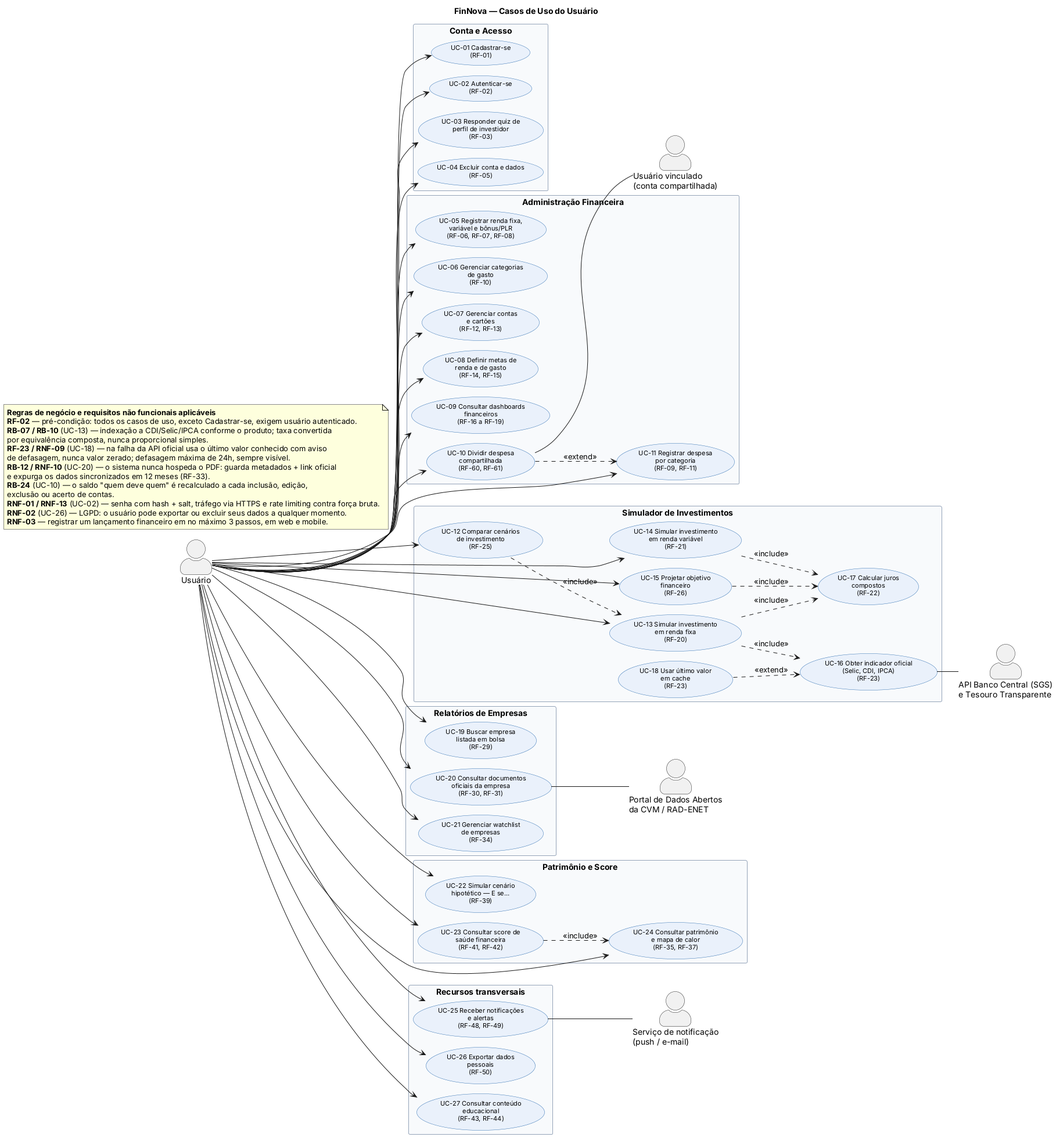
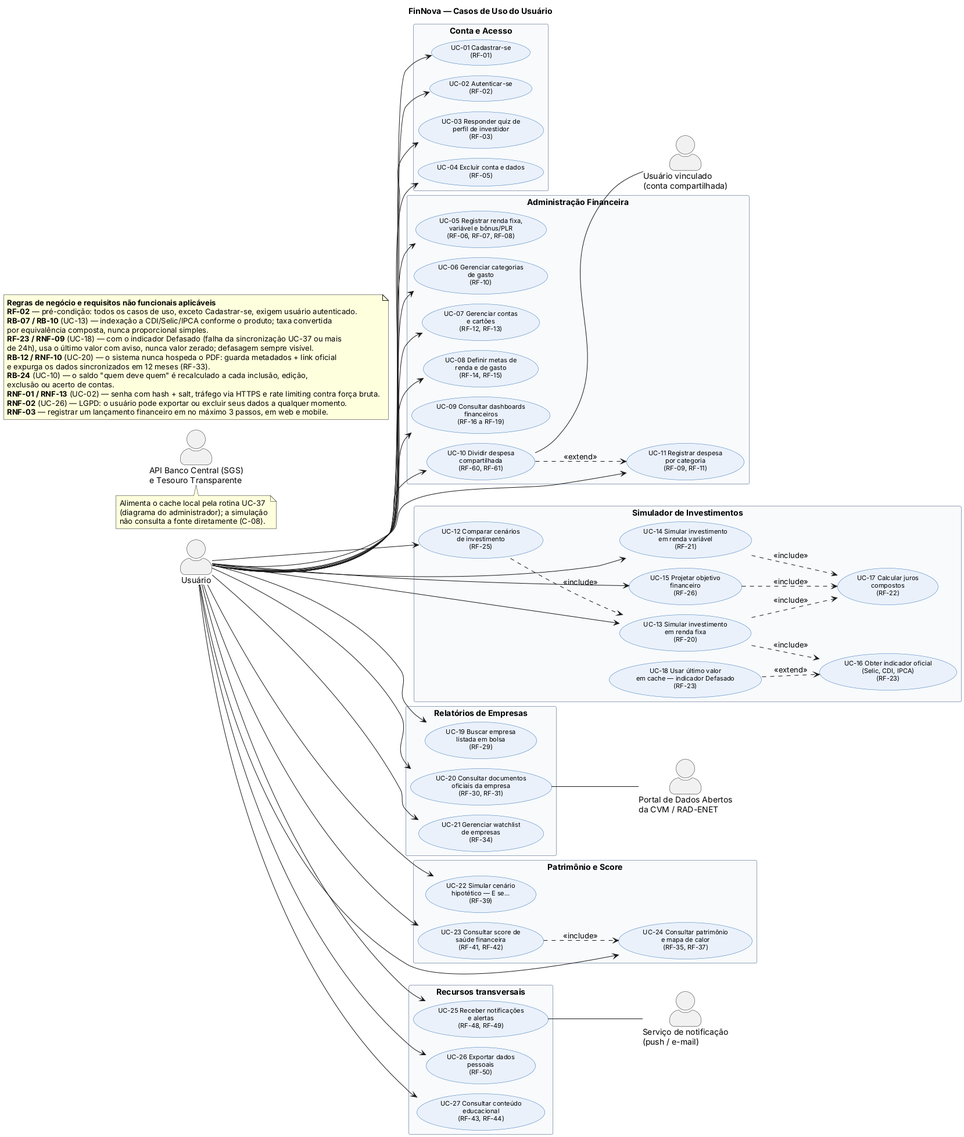
docs: corrige achados da revisão do UC-13 (#29, #30, #31, #32, #33)
- Estados do IndicadorOficial: falha da sincronização (UC-37) leva
  Atualizado a Defasado, alinhado ao RF-23 (IF/THEN) e à ADR-003;
  rótulos de evento/guarda e definição de estaDefasado().
- Sequência do UC-13: participante externo e IndicadorOficial,
  estaDefasado(), taxa manual obrigatória no ramo SemValor, releitura do
  indicador em simular(), estimarIR() opcional, aviso até o usuário e
  sem códigos HTTP não especificados.
- UC-16/UC-18: leitura do cache e extensão pelo estado Defasado (C-08).
- Relações dos casos de uso alinhadas entre .md e .puml.
- RF-02 e issues.md: bloqueio por e-mail informado, como na SPEC-001-R09;
  RF-20 com exceção para cache sem valor; glossário com taxa sugerida,
  taxa manual, indicador defasado e bloqueio por tentativas inválidas.
- UC-13: cenários de aceite das cláusulas derivadas, questões em aberto
  e rastreabilidade completa; SPEC-001: Cenário 7 rastreado à R09.

Claude-Session: https://claude.ai/code/session_01NUEevmt7PYzZbeNMgeHBfj

diff --git a/docs/04-casos-de-uso/casos-de-uso-detalhados.md b/docs/04-casos-de-uso/casos-de-uso-detalhados.md
@@ -34,9 +34,9 @@ Descrição textual, com fluxos e exceções, dos casos de uso que compõem o fl
 
 **Exceções**
 
-- **3a. E-mail já cadastrado:** o sistema rejeita o cadastro com mensagem clara e não cria registro (HTTP 409).
 - **2a. Dados inválidos:** e-mail malformado ou senha curta; o sistema indica o campo inválido (HTTP 422).
-- **Excesso de requisições:** o cliente que ultrapassar o limite do RNF-13 recebe HTTP 429.
+- **3a. E-mail já cadastrado:** o sistema rejeita o cadastro com mensagem clara e não cria registro (HTTP 409).
+- **\*a. Excesso de requisições (em qualquer passo):** o cliente que ultrapassar o limite do RNF-13 recebe HTTP 429.
 
 **Pós-condição:** existe um `Usuario` com e-mail único e senha protegida por hash.
 
@@ -67,8 +67,8 @@ Descrição textual, com fluxos e exceções, dos casos de uso que compõem o fl
 **Exceções**
 
 - **2a. E-mail inexistente ou senha incorreta:** o sistema responde com a mesma mensagem genérica nos dois casos, sem revelar qual campo falhou (HTTP 401).
-- **2b. Tentativas inválidas repetidas:** o acesso da conta é bloqueado por 15 minutos após 5 tentativas inválidas consecutivas para o mesmo e-mail; enquanto durar o bloqueio, o sistema responde HTTP 429 com mensagem genérica (RF-02; SPEC-001-R09 e R10).
-- **Excesso de requisições:** HTTP 429 (RNF-13).
+- **2b. Tentativas inválidas repetidas:** após 5 tentativas inválidas consecutivas para o mesmo e-mail, novas tentativas para esse e-mail são bloqueadas por 15 minutos, exista ou não a conta; enquanto durar o bloqueio, o sistema responde HTTP 429 com mensagem genérica (RF-02; SPEC-001-R09 e R10; [#32](https://github.com/EricToshioGoya/Finance-management/issues/32)).
+- **\*a. Excesso de requisições (em qualquer passo):** HTTP 429 (RNF-13).
 
 **Pós-condição:** o cliente possui um token válido até a expiração ou o logout.
 
@@ -115,7 +115,7 @@ Descrição textual, com fluxos e exceções, dos casos de uso que compõem o fl
 | Ator principal | Usuário autenticado |
 | Atores secundários | API Banco Central (SGS) e Tesouro Transparente, de forma indireta, via cache |
 | Objetivo | Projetar quanto um investimento em renda fixa renderá ao fim do prazo, usando a taxa oficial vigente do produto. |
-| Requisitos | RF-20, RF-22, RF-23, RB-07, RB-10, RNF-04, RNF-09 |
+| Requisitos | RF-20, RF-22, RF-23, RF-25, RB-07, RB-10, RNF-04, RNF-09, DOM-09 |
 | Regras de negócio aplicadas | **RB-07** — a simulação é indexada ao CDI, à Selic ou ao IPCA conforme o produto (passo 2). **RB-10** — a taxa é convertida entre mês e ano por equivalência composta, nunca por divisão simples (passo 4). |
 | Specs | SPEC-002 (motor de cálculo); tributação na SPEC-004 (futura) |
 | Inclui | UC-16 (Obter indicador oficial) e UC-17 (Calcular juros compostos) |
@@ -135,13 +135,13 @@ Descrição textual, com fluxos e exceções, dos casos de uso que compõem o fl
 
 **Fluxos alternativos**
 
-- **2a. Indicador defasado por falha da fonte oficial (extensão — UC-18):** o sistema usa o último valor conhecido e exibe aviso de defasagem com a data de referência, nunca um valor zerado (RF-23; cláusula UC-13-E01).
+- **2a. Indicador defasado — falha da sincronização ou mais de 24h sem sucesso (extensão — UC-18):** o sistema usa o último valor conhecido e exibe aviso de defasagem com a data de referência, nunca um valor zerado (RF-23; cláusula UC-13-E01).
 - **2b. Nenhum valor do indicador no cache (extensão):** na primeira execução, antes de qualquer sincronização, o sistema não sugere taxa e exige que o usuário informe a taxa manualmente para prosseguir (cláusula UC-13-E02).
 - **3a. Taxa manual:** o usuário substitui a taxa sugerida por um valor próprio; a simulação não é vinculada a um `IndicadorOficial` (RF-20, DOM-09).
 
 **Exceções**
 
-- **4a. Entrada inválida** (valor negativo ou prazo igual a zero): o sistema rejeita a simulação e indica o campo (SPEC-002, R06).
+- **4a. Entrada inválida** (valor inicial, aporte mensal ou taxa negativos, ou prazo menor ou igual a zero): o sistema rejeita a simulação e indica o campo (SPEC-002-R06). O código HTTP da resposta fica para a spec da simulação (OPEN-UC13-04).
 
 **Pós-condição:** a simulação está guardada com seus parâmetros, e o usuário visualiza a projeção, identificada como simulação educativa e não como recomendação.
 
@@ -151,7 +151,7 @@ Descrição textual, com fluxos e exceções, dos casos de uso que compõem o fl
 
 ![Diagrama de sequência do UC-13](../uml/seq-UC-13.png)
 
-Os blocos `alt` modelam as extensões 2a e 2b (estado do indicador) e a exceção 4a; o bloco `opt` modela o fluxo alternativo 3a.
+Os blocos `alt` modelam as extensões 2a e 2b (estado do indicador) e a exceção 4a; o bloco `opt` modela o fluxo alternativo 3a (no ramo 2b a taxa manual é obrigatória). O diagrama detalha a seção 5.2 da `arquitetura.md` em duas chamadas (sugestão da taxa e simulação), inclui a gravação do passo 5 e mostra, em bloco separado, a rotina agendada UC-37 que alimenta o cache: a simulação nunca chama a fonte externa (ADR-003, C-08).
 
 ### Diagrama de estados do `IndicadorOficial`
 
@@ -159,9 +159,9 @@ Os blocos `alt` modelam as extensões 2a e 2b (estado do indicador) e a exceçã
 
 | Estado | Condição | Efeito no UC-13 |
 |---|---|---|
-| SemValor | Nenhum valor em cache (antes da primeira sincronização). | Extensão 2b: taxa manual obrigatória (UC-13-E02). |
+| SemValor | Não há registro de `IndicadorOficial` para o tipo do produto (antes da primeira sincronização). | Extensão 2b: taxa manual obrigatória (UC-13-E02). |
 | Atualizado | Última sincronização bem-sucedida há no máximo 24h (RNF-09). | Fluxo principal: taxa pré-preenchida com a data de referência. |
-| Defasado | Mais de 24h sem sincronização bem-sucedida; `estaDefasado()` verdadeiro. | Extensão 2a: último valor com aviso de defasagem (UC-13-E01). |
+| Defasado | A última sincronização (UC-37) falhou ou passaram mais de 24h sem sincronização bem-sucedida; `estaDefasado()` verdadeiro. | Extensão 2a: último valor com aviso de defasagem (UC-13-E01). |
 
 ### Cláusulas EARS do UC-13
 
@@ -171,7 +171,7 @@ Cláusulas derivadas dos estados e das exceções. As novas (E01 e E02) também 
 |---|---|---|---|
 | UC-13-E01 | State-driven | WHILE o `IndicadorOficial` do produto estiver Defasado THE SYSTEM SHALL exibir, junto à taxa sugerida e ao resultado da simulação, aviso de defasagem com a data de referência. | Estado Defasado; RF-23, RNF-09 |
 | UC-13-E02 | Unwanted behavior | IF não houver valor do `IndicadorOficial` do produto no cache THEN THE SYSTEM SHALL exigir que o usuário informe a taxa manualmente antes de executar a simulação. | Estado SemValor; extensão 2b; RF-20, RF-23 |
-| RF-23 (IF/THEN) | Unwanted behavior | IF a API oficial estiver indisponível ou retornar erro na atualização THEN THE SYSTEM SHALL usar o último valor em cache e exibir aviso visual de defasagem — nunca um valor zerado ou inventado. | Transição Defasado → Defasado; extensão 2a |
+| RF-23 (IF/THEN) | Unwanted behavior | IF a API oficial estiver indisponível ou retornar erro na atualização THEN THE SYSTEM SHALL usar o último valor em cache e exibir aviso visual de defasagem — nunca um valor zerado ou inventado. | Transições Atualizado → Defasado e Defasado → Defasado (falha da UC-37); extensão 2a |
 | SPEC-002-R06 | Unwanted behavior | IF `valor_inicial`, `aporte_mensal` ou `taxa_juros` for negativo, ou `periodo` for menor ou igual a zero, THEN THE SYSTEM SHALL lançar `ValueError` sem executar o cálculo. | Exceção 4a |
 | DOM-09 | Event-driven | WHEN uma simulação de renda fixa for criada sem taxa manual THE SYSTEM SHALL associá-la ao `IndicadorOficial` correspondente ao produto. | Passo 5; alternativo 3a |
 
@@ -179,10 +179,26 @@ Cláusulas derivadas dos estados e das exceções. As novas (E01 e E02) também 
 
 | Regra | Passo do UC-13 | Elemento no diagrama | Cláusula que vira teste | Evidência no GitHub |
 |---|---|---|---|---|
-| RB-07 — indexação conforme o produto | 2 | Sequência: `buscarPorTipo(...) [RB-07]` | DOM-09 (teste na spec do RF-20, a criar) | [#18](https://github.com/EricToshioGoya/Finance-management/issues/18) (RF-20) |
+| RB-07 — indexação conforme o produto | 2 | Sequência: `buscarPorTipo(...) [RB-07]` | RF-23 (Event-driven) e DOM-09 — teste na spec do RF-20/RF-23, a criar; depende da OPEN-UC13-01 | [#18](https://github.com/EricToshioGoya/Finance-management/issues/18) (RF-20) |
 | RB-10 — equivalência composta | 4 | Sequência: `calcularEvolucao() [RB-10]` | SPEC-002-R02 (unitário — Cenário 1) | [#20](https://github.com/EricToshioGoya/Finance-management/issues/20) (RF-22) |
-| RF-23 / RNF-09 — indicador defasado | 2a | Sequência: `alt` Defasado; Estados: Atualizado → Defasado | UC-13-E01 (spec a criar) | [#21](https://github.com/EricToshioGoya/Finance-management/issues/21) (RF-23) |
-| RF-23 — cache sem valor | 2b | Sequência: `alt` SemValor; Estados: SemValor | UC-13-E02 (spec a criar) | [#21](https://github.com/EricToshioGoya/Finance-management/issues/21) (RF-23) |
+| RF-23 / RNF-09 — indicador defasado | 2a | Sequência: `alt` Defasado; Estados: Atualizado → Defasado | UC-13-E01 — Cenário UC13-A (`test_uc13_e01_aviso_defasagem`, previsto) | [#21](https://github.com/EricToshioGoya/Finance-management/issues/21) (RF-23) |
+| RF-23 — cache sem valor | 2b | Sequência: `alt` SemValor; Estados: SemValor | UC-13-E02 — Cenário UC13-B (`test_uc13_e02_exige_taxa_manual`, previsto) | [#21](https://github.com/EricToshioGoya/Finance-management/issues/21) (RF-23) |
 | RF-22 — entrada inválida | 4a | Sequência: `alt` Entrada inválida | SPEC-002-R06 (unitário — Cenário 3) | [#20](https://github.com/EricToshioGoya/Finance-management/issues/20) (RF-22) |
+| DOM-09 — vínculo com o indicador | 5, 3a | Sequência: `salvar(simulação) ... [DOM-09]` | DOM-09 — Cenário UC13-C (`test_dom09_vinculo_indicador_ou_taxa_manual`, previsto) | [#18](https://github.com/EricToshioGoya/Finance-management/issues/18) (RF-20) |
 
-Artefatos desta modelagem: caso de uso ([#29](https://github.com/EricToshioGoya/Finance-management/issues/29)), diagrama de sequência ([#30](https://github.com/EricToshioGoya/Finance-management/issues/30)) e diagrama de estados ([#31](https://github.com/EricToshioGoya/Finance-management/issues/31)).
+Artefatos desta modelagem: caso de uso ([#29](https://github.com/EricToshioGoya/Finance-management/issues/29)), diagrama de sequência ([#30](https://github.com/EricToshioGoya/Finance-management/issues/30)), diagrama de estados ([#31](https://github.com/EricToshioGoya/Finance-management/issues/31)), cláusulas de bloqueio da SPEC-001 ([#32](https://github.com/EricToshioGoya/Finance-management/issues/32)) e fontes PlantUML ([#33](https://github.com/EricToshioGoya/Finance-management/issues/33)), entregues pelo PR [#34](https://github.com/EricToshioGoya/Finance-management/pull/34).
+
+### Cenários de aceite das cláusulas derivadas
+
+Os nomes de teste são previstos e serão confirmados na spec da simulação de renda fixa, a criar.
+
+- **Cenário UC13-A (UC-13-E01):** **Dado** um `IndicadorOficial` CDI cuja última sincronização bem-sucedida foi há 30 horas, **quando** o usuário simula um CDB com a taxa sugerida, **então** a resposta traz o resultado, a data de referência e o aviso de defasagem.
+- **Cenário UC13-B (UC-13-E02):** **Dado** que não há registro de `IndicadorOficial` CDI no cache, **quando** o usuário pede uma simulação de CDB sem informar taxa, **então** a simulação é rejeitada e o sistema exige a taxa manual.
+- **Cenário UC13-C (DOM-09):** **Dado** um `IndicadorOficial` CDI atualizado, **quando** o usuário simula com a taxa sugerida, **então** a simulação guardada fica vinculada ao indicador; **e quando** simula com taxa manual, **então** a simulação guardada fica sem vínculo.
+
+### Questões em aberto do UC-13
+
+- **OPEN-UC13-01:** qual indicador corresponde a cada produto (RB-07)? Ex.: CDB → CDI; Tesouro → título específico (Selic, IPCA+ ou prefixado); poupança → regra própria da poupança (que depende da Selic e da TR).
+- **OPEN-UC13-02:** uma sincronização bem-sucedida sem dado novo (fins de semana, feriados, IPCA mensal) atualiza `atualizadoEm`? A resposta define quando o indicador passa a Defasado.
+- **OPEN-UC13-03:** o expurgo de 12 meses do RNF-10 (RB-12) vale também para o `IndicadorOficial`, ou só para os dados da CVM? Se valer, falta a transição Defasado → SemValor.
+- **OPEN-UC13-04:** qual é o contrato HTTP da simulação (códigos de sucesso e de erro de validação)? Definir na spec da simulação de renda fixa.

diff --git a/docs/04-casos-de-uso/casos-de-uso-usuario.md b/docs/04-casos-de-uso/casos-de-uso-usuario.md
@@ -10,7 +10,7 @@ Os identificadores `UC-NN` são sequenciais entre este documento (UC-01 a UC-27)
 
 ![Diagrama de casos de uso do usuário](casos-de-uso-usuario.png)
 
-Fonte editável (PlantUML): `casos-de-uso-usuario.puml`. Para regenerar a imagem após editar a fonte, a partir de `/docs/04-casos-de-uso/`:
+Fonte editável (PlantUML): `casos-de-uso-usuario.puml` ([#33](https://github.com/EricToshioGoya/Finance-management/issues/33)). Para regenerar a imagem após editar a fonte, a partir de `/docs/04-casos-de-uso/`:
 
 ```bash
 java -jar plantuml.jar -tpng casos-de-uso-usuario.puml
@@ -20,7 +20,7 @@ java -jar plantuml.jar -tpng casos-de-uso-usuario.puml
 
 - **Usuário**: utiliza a plataforma para administrar suas finanças, consultar informações e realizar simulações.
 - **Usuário vinculado (conta compartilhada)**: papel assumido por um usuário cadastrado que participa de uma associação de conta compartilhada para divisão de despesas.
-- **API Banco Central (SGS) e Tesouro Transparente**: fornece indicadores oficiais para as simulações.
+- **API Banco Central (SGS) e Tesouro Transparente**: fornece os indicadores oficiais ao cache local por meio da rotina UC-37 (diagrama do administrador); a simulação não a consulta diretamente (C-08).
 - **Portal de Dados Abertos da CVM / RAD-ENET**: fornece dados e documentos oficiais de empresas.
 - **Serviço de notificação (push / e-mail)**: entrega notificações e alertas ao usuário.
 
@@ -53,11 +53,11 @@ java -jar plantuml.jar -tpng casos-de-uso-usuario.puml
 | --- | --- | --- | --- | --- |
 | UC-12 | Comparar cenários de investimento | RF-25 | Usuário | Permite comparar os resultados de diferentes cenários de investimento. |
 | UC-13 | Simular investimento em renda fixa | RF-20 | Usuário; API Banco Central e Tesouro Transparente | Simula a evolução de um investimento de renda fixa. |
-| UC-14 | Simular investimento em renda variável | RF-21 | Usuário; API Banco Central e Tesouro Transparente | Simula cenários de investimento em renda variável. |
+| UC-14 | Simular investimento em renda variável | RF-21 | Usuário; provedor de dados de mercado (RF-24, a definir) | Simula cenários de investimento em renda variável. |
 | UC-15 | Projetar objetivo financeiro | RF-26 | Usuário | Permite projetar a evolução necessária para atingir um objetivo financeiro. |
-| UC-16 | Obter indicador oficial (Selic, CDI, IPCA) | RF-23 | API Banco Central e Tesouro Transparente | Obtém os indicadores oficiais usados nas simulações. |
-| UC-17 | Calcular juros compostos | RF-22 | Usuário | Calcula a evolução dos valores aplicados com base em juros compostos. |
-| UC-18 | Usar último valor em cache | RF-23 | Sistema | Usa o último valor conhecido quando a API oficial estiver indisponível. |
+| UC-16 | Obter indicador oficial (Selic, CDI, IPCA) | RF-23 | Sistema (cache local, alimentado pela UC-37) | Lê do cache local o indicador oficial usado na simulação; a fonte externa é consultada só pela UC-37. |
+| UC-17 | Calcular juros compostos | RF-22 | — (incluído por UC-13, UC-14 e UC-15) | Calcula a evolução dos valores aplicados com base em juros compostos. |
+| UC-18 | Usar último valor em cache | RF-23 | Sistema | Usa o último valor em cache, com aviso, quando o indicador estiver Defasado (falha da sincronização UC-37 ou mais de 24h sem sucesso). |
 
 ### Relatórios de Empresas
 
@@ -87,8 +87,9 @@ java -jar plantuml.jar -tpng casos-de-uso-usuario.puml
 
 - **Dividir despesa compartilhada** estende **Registrar despesa por categoria**.
 - **Comparar cenários de investimento** inclui **Simular investimento em renda fixa**.
-- **Simular investimento em renda fixa** e **Simular investimento em renda variável** incluem **Obter indicador oficial (Selic, CDI, IPCA)** e **Calcular juros compostos**, quando aplicável.
-- **Usar último valor em cache** estende **Obter indicador oficial (Selic, CDI, IPCA)** quando a consulta à fonte oficial falha.
+- **Simular investimento em renda fixa** inclui **Obter indicador oficial (Selic, CDI, IPCA)** e **Calcular juros compostos**.
+- **Simular investimento em renda variável** e **Projetar objetivo financeiro** incluem **Calcular juros compostos**.
+- **Usar último valor em cache** estende **Obter indicador oficial (Selic, CDI, IPCA)** quando o indicador em cache está Defasado (falha da sincronização UC-37 ou mais de 24h sem sucesso — `docs/uml/estados-indicador.png`).
 - **Consultar score de saúde financeira** inclui **Consultar patrimônio e mapa de calor**.
 - **Consultar documentos oficiais da empresa** depende do **Portal de Dados Abertos da CVM / RAD-ENET**.
 - **Receber notificações e alertas** utiliza o **Serviço de notificação (push / e-mail)**.

diff --git a/docs/08-specs/SPEC-001-cadastro-e-autenticacao.md b/docs/08-specs/SPEC-001-cadastro-e-autenticacao.md
@@ -3,7 +3,7 @@
 * **Status:** Aprovada
 * **Data:** 2026-10-08
 * **Revisão:** 2026-10-18 — correção da rastreabilidade, inclusão das cláusulas EARS (seção 5) e dos cenários 4 e 5.
-* **Revisão:** 2026-10-18 (Semana 4) — cláusulas R09 e R10 do bloqueio por tentativas inválidas (decisão da OPEN-02) e cenários 6 e 7.
+* **Revisão:** 2026-10-18 (Semana 4) — cláusulas R09 e R10 do bloqueio por tentativas inválidas (decisão da OPEN-02) e cenários 6 e 7 ([#32](https://github.com/EricToshioGoya/Finance-management/issues/32)).
 * **Autor:** Equipe FinNova / SDD
 
 ---
@@ -86,7 +86,7 @@ Cada cláusula `SHALL` tem ao menos um teste automatizado que cita o seu ID (ver
 | SPEC-001-R06 | Ubiquitous | THE SYSTEM SHALL nunca armazenar nem registrar em log a senha em texto plano. | RNF-01 | Unitário (hash) e integração (inspeção do registro e dos logs) |
 | SPEC-001-R07 | State-driven | WHILE um cliente tiver excedido 100 requisições no último minuto em um endpoint de autenticação THE SYSTEM SHALL rejeitar novas requisições desse cliente nesse endpoint com `429 Too Many Requests`. | RNF-13 | Integração |
 | SPEC-001-R08 | Ubiquitous | THE SYSTEM SHALL expor os endpoints de autenticação sob o prefixo `/api/v1`. | RNF-17 | Integração (rotas) |
-| SPEC-001-R09 | Unwanted behavior | IF ocorrerem 5 tentativas de login inválidas consecutivas para o mesmo e-mail, sem login bem-sucedido entre elas, THEN THE SYSTEM SHALL bloquear novas tentativas de login para esse e-mail por 15 minutos, esteja ele cadastrado ou não. | RF-02, INV-03 | Integração — Cenário 6 |
+| SPEC-001-R09 | Unwanted behavior | IF ocorrerem 5 tentativas de login inválidas consecutivas para o mesmo e-mail, sem login bem-sucedido entre elas, THEN THE SYSTEM SHALL bloquear novas tentativas de login para esse e-mail por 15 minutos, esteja ele cadastrado ou não. | RF-02, INV-03 | Integração — Cenários 6 e 7 |
 | SPEC-001-R10 | State-driven | WHILE o e-mail informado estiver bloqueado THE SYSTEM SHALL responder `429 Too Many Requests` com mensagem genérica a toda tentativa de login para esse e-mail, inclusive com a senha correta. | RF-02, INV-03 | Integração — Cenários 6 e 7 |
 
 ---
@@ -130,7 +130,7 @@ Cada cláusula `SHALL` tem ao menos um teste automatizado que cita o seu ID (ver
 * **Quando** forem enviadas 5 requisições de login seguidas com senha incorreta e, em seguida, uma requisição com a senha correta
 * **Então** a sexta requisição deve retornar `429 Too Many Requests` com mensagem genérica; e o mesmo comportamento, com corpo de resposta idêntico, deve ocorrer para o e-mail "inexistente@finnova.com".
 
-### Cenário 7: Fim do bloqueio (R10)
+### Cenário 7: Fim do bloqueio (R09, R10)
 * **Dado** que o e-mail "usuario@finnova.com" foi bloqueado há mais de 15 minutos
 * **Quando** for enviada uma requisição de login com a senha correta
 * **Então** o sistema deve retornar `200 OK` com o `access_token`.
@@ -139,5 +139,5 @@ Cada cláusula `SHALL` tem ao menos um teste automatizado que cita o seu ID (ver
 
 ## 8. Questões em Aberto
 * **OPEN-01:** Qual será o tempo padrão de expiração do Token JWT (ex: 60 minutos ou 24 horas)? *(Decisão pendente de configuração de ambiente)*.
-* **OPEN-02:** O RF-02 exige bloquear o acesso após N tentativas inválidas. Qual é o valor de N, por quanto tempo dura o bloqueio e ele se aplica à conta ou ao cliente? *(Complementar ao rate limiting da R07)*. **Resolvida (rev-1):** N = 5 tentativas inválidas consecutivas; bloqueio de 15 minutos; aplica-se à conta (o rate limiting da R07 continua valendo por cliente). Ver RF-02. **Formalizada na Semana 4** nas cláusulas R09 e R10: o contador considera o e-mail informado, exista ou não a conta, e a resposta durante o bloqueio é `429` com mensagem genérica, para não revelar contas (INV-03).
+* **OPEN-02:** O RF-02 exige bloquear o acesso após N tentativas inválidas. Qual é o valor de N, por quanto tempo dura o bloqueio e ele se aplica à conta ou ao cliente? *(Complementar ao rate limiting da R07)*. **Resolvida (rev-1):** N = 5 tentativas inválidas consecutivas; bloqueio de 15 minutos; aplica-se à conta (o rate limiting da R07 continua valendo por cliente). Ver RF-02. **Formalizada e refinada na Semana 4** (#32) nas cláusulas R09 e R10: o bloqueio passa a valer para o e-mail informado, exista ou não a conta (e não só para contas existentes), e a resposta durante o bloqueio é `429` com mensagem genérica, para não revelar contas (INV-03).
 * **OPEN-03:** A stack prevê JWT com access e refresh token, e o RF-02 exige manter a sessão até o logout ou a expiração. Refresh token e logout entram nesta spec ou em uma spec própria?

diff --git a/docs/03-requisitos/requisitos.md b/docs/03-requisitos/requisitos.md
@@ -108,12 +108,12 @@
 - Event-driven. WHEN o usuário submete e-mail e senha corretos THE SYSTEM SHALL iniciar a sessão e retornar um token de sessão.
 - State-driven. WHILE a sessão do usuário estiver ativa (token válido e não expirado) THE SYSTEM SHALL permitir o acesso às funcionalidades autenticadas sem nova solicitação de credenciais.
 - Unwanted behavior. IF as credenciais forem inválidas THEN THE SYSTEM SHALL recusar o acesso e exibir mensagem de erro genérica, sem indicar qual campo falhou.
-- Unwanted behavior. IF ocorrerem 5 tentativas de login inválidas consecutivas para a mesma conta THEN THE SYSTEM SHALL bloquear novas tentativas dessa conta por 15 minutos.
+- Unwanted behavior. IF ocorrerem 5 tentativas de login inválidas consecutivas para o mesmo e-mail, cadastrado ou não, THEN THE SYSTEM SHALL bloquear novas tentativas para esse e-mail por 15 minutos.
 
 **Critérios de aceite:**
 
 - [ ] Deve autenticar por e-mail e senha.
-- [ ] Deve bloquear novas tentativas por 15 minutos após 5 tentativas inválidas consecutivas para a mesma conta (padrão de mercado); o contador é zerado após um login bem-sucedido.
+- [ ] Deve bloquear novas tentativas por 15 minutos após 5 tentativas inválidas consecutivas para o mesmo e-mail, cadastrado ou não, para não revelar quais e-mails têm conta (padrão de mercado; SPEC-001-R09, R10 e INV-03); o contador é zerado após um login bem-sucedido.
 - [ ] Deve manter sessão ativa até logout ou expiração do token.
 
 #### RF-03 — Quiz de perfil de investidor
@@ -336,7 +336,7 @@ Reúne o registro de todas as fontes de renda e de gastos do usuário, organizad
 **Critérios de aceite:**
 
 - [ ] Deve permitir simular CDB, Tesouro e poupança informando valor inicial, aporte mensal e prazo.
-- [ ] Deve usar o motor de cálculo de juros compostos (RF-22), alimentado pela taxa vinda dos indicadores oficiais (RF-23) — sem o usuário precisar digitar a taxa manualmente.
+- [ ] Deve usar o motor de cálculo de juros compostos (RF-22), alimentado pela taxa vinda dos indicadores oficiais (RF-23) — sem o usuário precisar digitar a taxa manualmente, exceto quando não houver valor do indicador no cache (RF-23, UC-13-E02).
 - [ ] Deve permitir ao usuário sobrepor a taxa sugerida por um valor manual, caso queira simular um cenário hipotético.
 - [ ] Deve exibir o valor bruto e, quando aplicável, o valor líquido de IR (tabela regressiva conforme prazo, exceto poupança e produtos isentos).
 - [ ] Deve exibir a data de referência do indicador usado na simulação.
@@ -1217,3 +1217,7 @@ Nomes usados em código, specs e documentação, alinhados às classes de `/docs
 | Taxa equivalente composta | operação de `Simulacao` | Conversão de taxa entre períodos por `(1 + i)^n − 1`, nunca por divisão simples (RB-10) |
 | Aporte mensal | atributo de `Simulacao` | Valor investido ao fim de cada mês da simulação |
 | Comparação de cenários | operação sobre `Simulacao` | Exibição lado a lado de duas ou mais simulações do mesmo usuário (RF-25) |
+| Taxa sugerida | atributo de `SimulacaoRendaFixa` | Taxa do `IndicadorOficial` do produto, pré-preenchida na simulação de renda fixa; vincula a simulação ao indicador (DOM-09) |
+| Taxa manual | atributo de `SimulacaoRendaFixa` | Taxa informada pelo usuário no lugar da sugerida; a simulação fica sem vínculo com `IndicadorOficial` (DOM-09). Obrigatória quando não há valor do indicador no cache (UC-13-E02) |
+| Indicador defasado | estado de `IndicadorOficial` (`estaDefasado()`) | Estado Defasado: a última sincronização falhou ou passaram mais de 24h sem sincronização bem-sucedida; a simulação usa o último valor e exibe aviso (RF-23, RNF-09, UC-13-E01). Estados possíveis: SemValor, Atualizado e Defasado (`docs/uml/estados-indicador.png`) |
+| Bloqueio por tentativas inválidas | — (regra de autenticação) | Suspensão, por 15 minutos, das tentativas de login de um e-mail após 5 falhas consecutivas, exista ou não a conta (RF-02, SPEC-001-R09 e R10) |

diff --git a/docs/06-backlog/issues.md b/docs/06-backlog/issues.md
@@ -25,6 +25,8 @@ Labels sugeridas por módulo: `modulo:conta-acesso`, `modulo:adm-financeira`, `m
 
 Issues de documentação e setup da Semana 1: [#2](https://github.com/EricToshioGoya/Finance-management/issues/2) (visão), [#3](https://github.com/EricToshioGoya/Finance-management/issues/3) (benchmark), [#4](https://github.com/EricToshioGoya/Finance-management/issues/4) (perfis), [#5](https://github.com/EricToshioGoya/Finance-management/issues/5) (fluxo principal), [#6](https://github.com/EricToshioGoya/Finance-management/issues/6) (setup), [#7](https://github.com/EricToshioGoya/Finance-management/issues/7) (arquitetura, segurança e testes) e [#8](https://github.com/EricToshioGoya/Finance-management/issues/8) (correções de coerência).
 
+Issues de documentação da Semana 4: [#29](https://github.com/EricToshioGoya/Finance-management/issues/29) (UC-13), [#30](https://github.com/EricToshioGoya/Finance-management/issues/30) (diagrama de sequência), [#31](https://github.com/EricToshioGoya/Finance-management/issues/31) (diagrama de estados), [#32](https://github.com/EricToshioGoya/Finance-management/issues/32) (SPEC-001 R09/R10) e [#33](https://github.com/EricToshioGoya/Finance-management/issues/33) (fontes PlantUML). Os blocos abaixo registram a origem das issues; o texto vigente está no GitHub.
+
 ---
 
 ### 1. [RF-01] Cadastro de usuário
@@ -49,7 +51,7 @@ Issues de documentação e setup da Semana 1: [#2](https://github.com/EricToshio
 - Event-driven. WHEN o usuário submete e-mail e senha corretos THE SYSTEM SHALL iniciar a sessão e retornar um token de sessão.
 - State-driven. WHILE a sessão do usuário estiver ativa (token válido e não expirado) THE SYSTEM SHALL permitir o acesso às funcionalidades autenticadas sem nova solicitação de credenciais.
 - Unwanted behavior. IF as credenciais forem inválidas THEN THE SYSTEM SHALL recusar o acesso e exibir mensagem de erro genérica, sem indicar qual campo falhou.
-- Unwanted behavior. IF ocorrerem 5 tentativas de login inválidas consecutivas para a mesma conta THEN THE SYSTEM SHALL bloquear novas tentativas dessa conta por 15 minutos.
+- Unwanted behavior. IF ocorrerem 5 tentativas de login inválidas consecutivas para o mesmo e-mail, cadastrado ou não, THEN THE SYSTEM SHALL bloquear novas tentativas para esse e-mail por 15 minutos.
 
 **Critérios de aceite:** ver RF-02 em `/docs/03-requisitos/requisitos.md`.
 
@@ -207,7 +209,7 @@ gh issue create --title "[RF-02] Login e autenticação" --label "RF,modulo:cont
   --body "Event-driven. WHEN o usuário submete e-mail e senha corretos THE SYSTEM SHALL iniciar a sessão e retornar um token de sessão.
 State-driven. WHILE a sessão do usuário estiver ativa (token válido e não expirado) THE SYSTEM SHALL permitir o acesso às funcionalidades autenticadas sem nova solicitação de credenciais.
 Unwanted behavior. IF as credenciais forem inválidas THEN THE SYSTEM SHALL recusar o acesso e exibir mensagem de erro genérica, sem indicar qual campo falhou.
-Unwanted behavior. IF ocorrerem 5 tentativas de login inválidas consecutivas para a mesma conta THEN THE SYSTEM SHALL bloquear novas tentativas dessa conta por 15 minutos.
+Unwanted behavior. IF ocorrerem 5 tentativas de login inválidas consecutivas para o mesmo e-mail, cadastrado ou não, THEN THE SYSTEM SHALL bloquear novas tentativas para esse e-mail por 15 minutos.
 
 Critérios de aceite: ver RF-02 em /docs/03-requisitos/requisitos.md."
 

diff --git a/docs/modelo-dominio.md b/docs/modelo-dominio.md
@@ -7,7 +7,7 @@
 >
 > Referência completa dos requisitos: `/docs/03-requisitos/requisitos.md`. Este documento cobre o **modelo de domínio (conceitual/OO)** — não deve ser confundido com o modelo de dados relacional da seção 4 de `requisitos.md`, que é o modelo de persistência (tabelas). Aqui, `Renda`, `Meta`, `Simulacao` e `PatrimonioItem` aparecem como hierarquias (generalização/especialização) para expressar comportamento comum entre subtipos — uma decisão de modelagem OO que a tabela relacional não precisa refletir 1:1.
 >
-> **Fonte e vista:** a fonte do modelo é este texto e os arquivos Mermaid em `/docs/uml/` (`dominio-v1.mmd` e `dominio-completo.mmd`). Os PNGs são apenas a vista exportada. Os termos usados aqui fazem parte do vocabulário obrigatório do glossário (`requisitos.md`, seção 8.1).
+> **Fonte e vista:** a fonte do modelo é este texto e os arquivos Mermaid em `/docs/uml/` (`dominio-v1.mmd` e `dominio-completo.mmd`; estados do `IndicadorOficial` em `estados-indicador.mmd`). Os PNGs são apenas a vista exportada. Os termos usados aqui fazem parte do vocabulário obrigatório do glossário (`requisitos.md`, seção 8.1).
 
 ---
 
@@ -53,7 +53,7 @@ Revisão de `requisitos.md` (RF-01 a RF-67) destacando os substantivos que repre
 | `SimulacaoRendaVariavel` | Projetar a evolução de ações/FIIs a partir de rentabilidade esperada, sempre como estimativa (RB-08) | RF-21 |
 | `SimulacaoAposentadoria` | Projetar o patrimônio na idade-alvo, estimar a renda mensal e comparar PGBL, VGBL e carteira própria | RF-62, RF-63 |
 | `SimulacaoEstresse` | Calcular por quantos meses o patrimônio cobre um cenário de choque, sem alterar dados reais (RB-17) | RF-39 |
-| `IndicadorOficial` | Guardar a taxa oficial (Selic, CDI, IPCA ou título do Tesouro Direto) com data de referência e indicar se está defasada (RNF-09) | RF-23 |
+| `IndicadorOficial` | Guardar a taxa oficial (Selic, CDI, IPCA ou título do Tesouro Direto) com data de referência e indicar se está defasada (RNF-09); estados SemValor, Atualizado e Defasado em [uml/estados-indicador.png](uml/estados-indicador.png) | RF-23 |
 | `EmpresaAberta` | Representar uma companhia listada em bolsa | RF-29 |
 | `DocumentoCVM` | Guardar metadados de um documento oficial e o link externo (nunca o binário) | RF-30, RF-31, RB-12 |
 | `IndicadorFinanceiro` | Guardar um indicador estruturado de uma empresa, extraído dos dados abertos da CVM (não confundir com `IndicadorOficial`) | RF-32 |

diff --git a/docs/04-casos-de-uso/casos-de-uso-administrador.md b/docs/04-casos-de-uso/casos-de-uso-administrador.md
@@ -9,7 +9,7 @@ Este documento descreve os casos de uso relacionados à administração da plata
 
 ![Diagrama de casos de uso do administrador](casos-de-uso-administrador.png)
 
-Fonte editável (PlantUML): `casos-de-uso-administrador.puml`. Para regenerar a imagem após editar a fonte, a partir de `/docs/04-casos-de-uso/`:
+Fonte editável (PlantUML): `casos-de-uso-administrador.puml` ([#33](https://github.com/EricToshioGoya/Finance-management/issues/33)). Para regenerar a imagem após editar a fonte, a partir de `/docs/04-casos-de-uso/`:
 
 ```bash
 java -jar plantuml.jar -tpng casos-de-uso-administrador.puml
@@ -53,7 +53,9 @@ java -jar plantuml.jar -tpng casos-de-uso-administrador.puml
 
 - **Acessar painel administrativo** inclui **Validar papel de administrador (RBAC)**.
 - As consultas do painel administrativo incluem **Acessar painel administrativo**.
-- **Acessar painel administrativo**, **Listar e buscar usuários**, **Consultar uso por módulo/aba**, **Consultar distribuição de perfil de investidor**, **Consultar engajamento e usuários recorrentes** e **Consultar trilha de auditoria** incluem **Registrar log de auditoria imutável**, quando aplicável.
+- **Acessar painel administrativo** inclui **Registrar log de auditoria imutável**; como as consultas do painel incluem **Acessar painel administrativo**, todo acesso a elas também é auditado (RNF-18).
+- **Promover usuário a administrador** inclui **Acessar painel administrativo** e **Registrar log de auditoria imutável** (RNF-18).
+- **Consultar uso por módulo/aba** e **Consultar engajamento e usuários recorrentes** incluem **Registrar evento de uso**, fonte das métricas que exibem (RF-59).
 - **Registrar evento de uso** é utilizado pelas rotinas do sistema e pelas ações que precisam gerar métricas de uso.
 - **Excluir dados de uso junto com a conta** inclui **Registrar log de auditoria imutável**, pois a exclusão é uma ação sensível (RNF-18).
 - **Sincronizar documentos e indicadores da CVM** e **Sincronizar indicadores oficiais em cache** podem ser executados pelo **Sistema / Agendador** e dependem das respectivas fontes externas.
